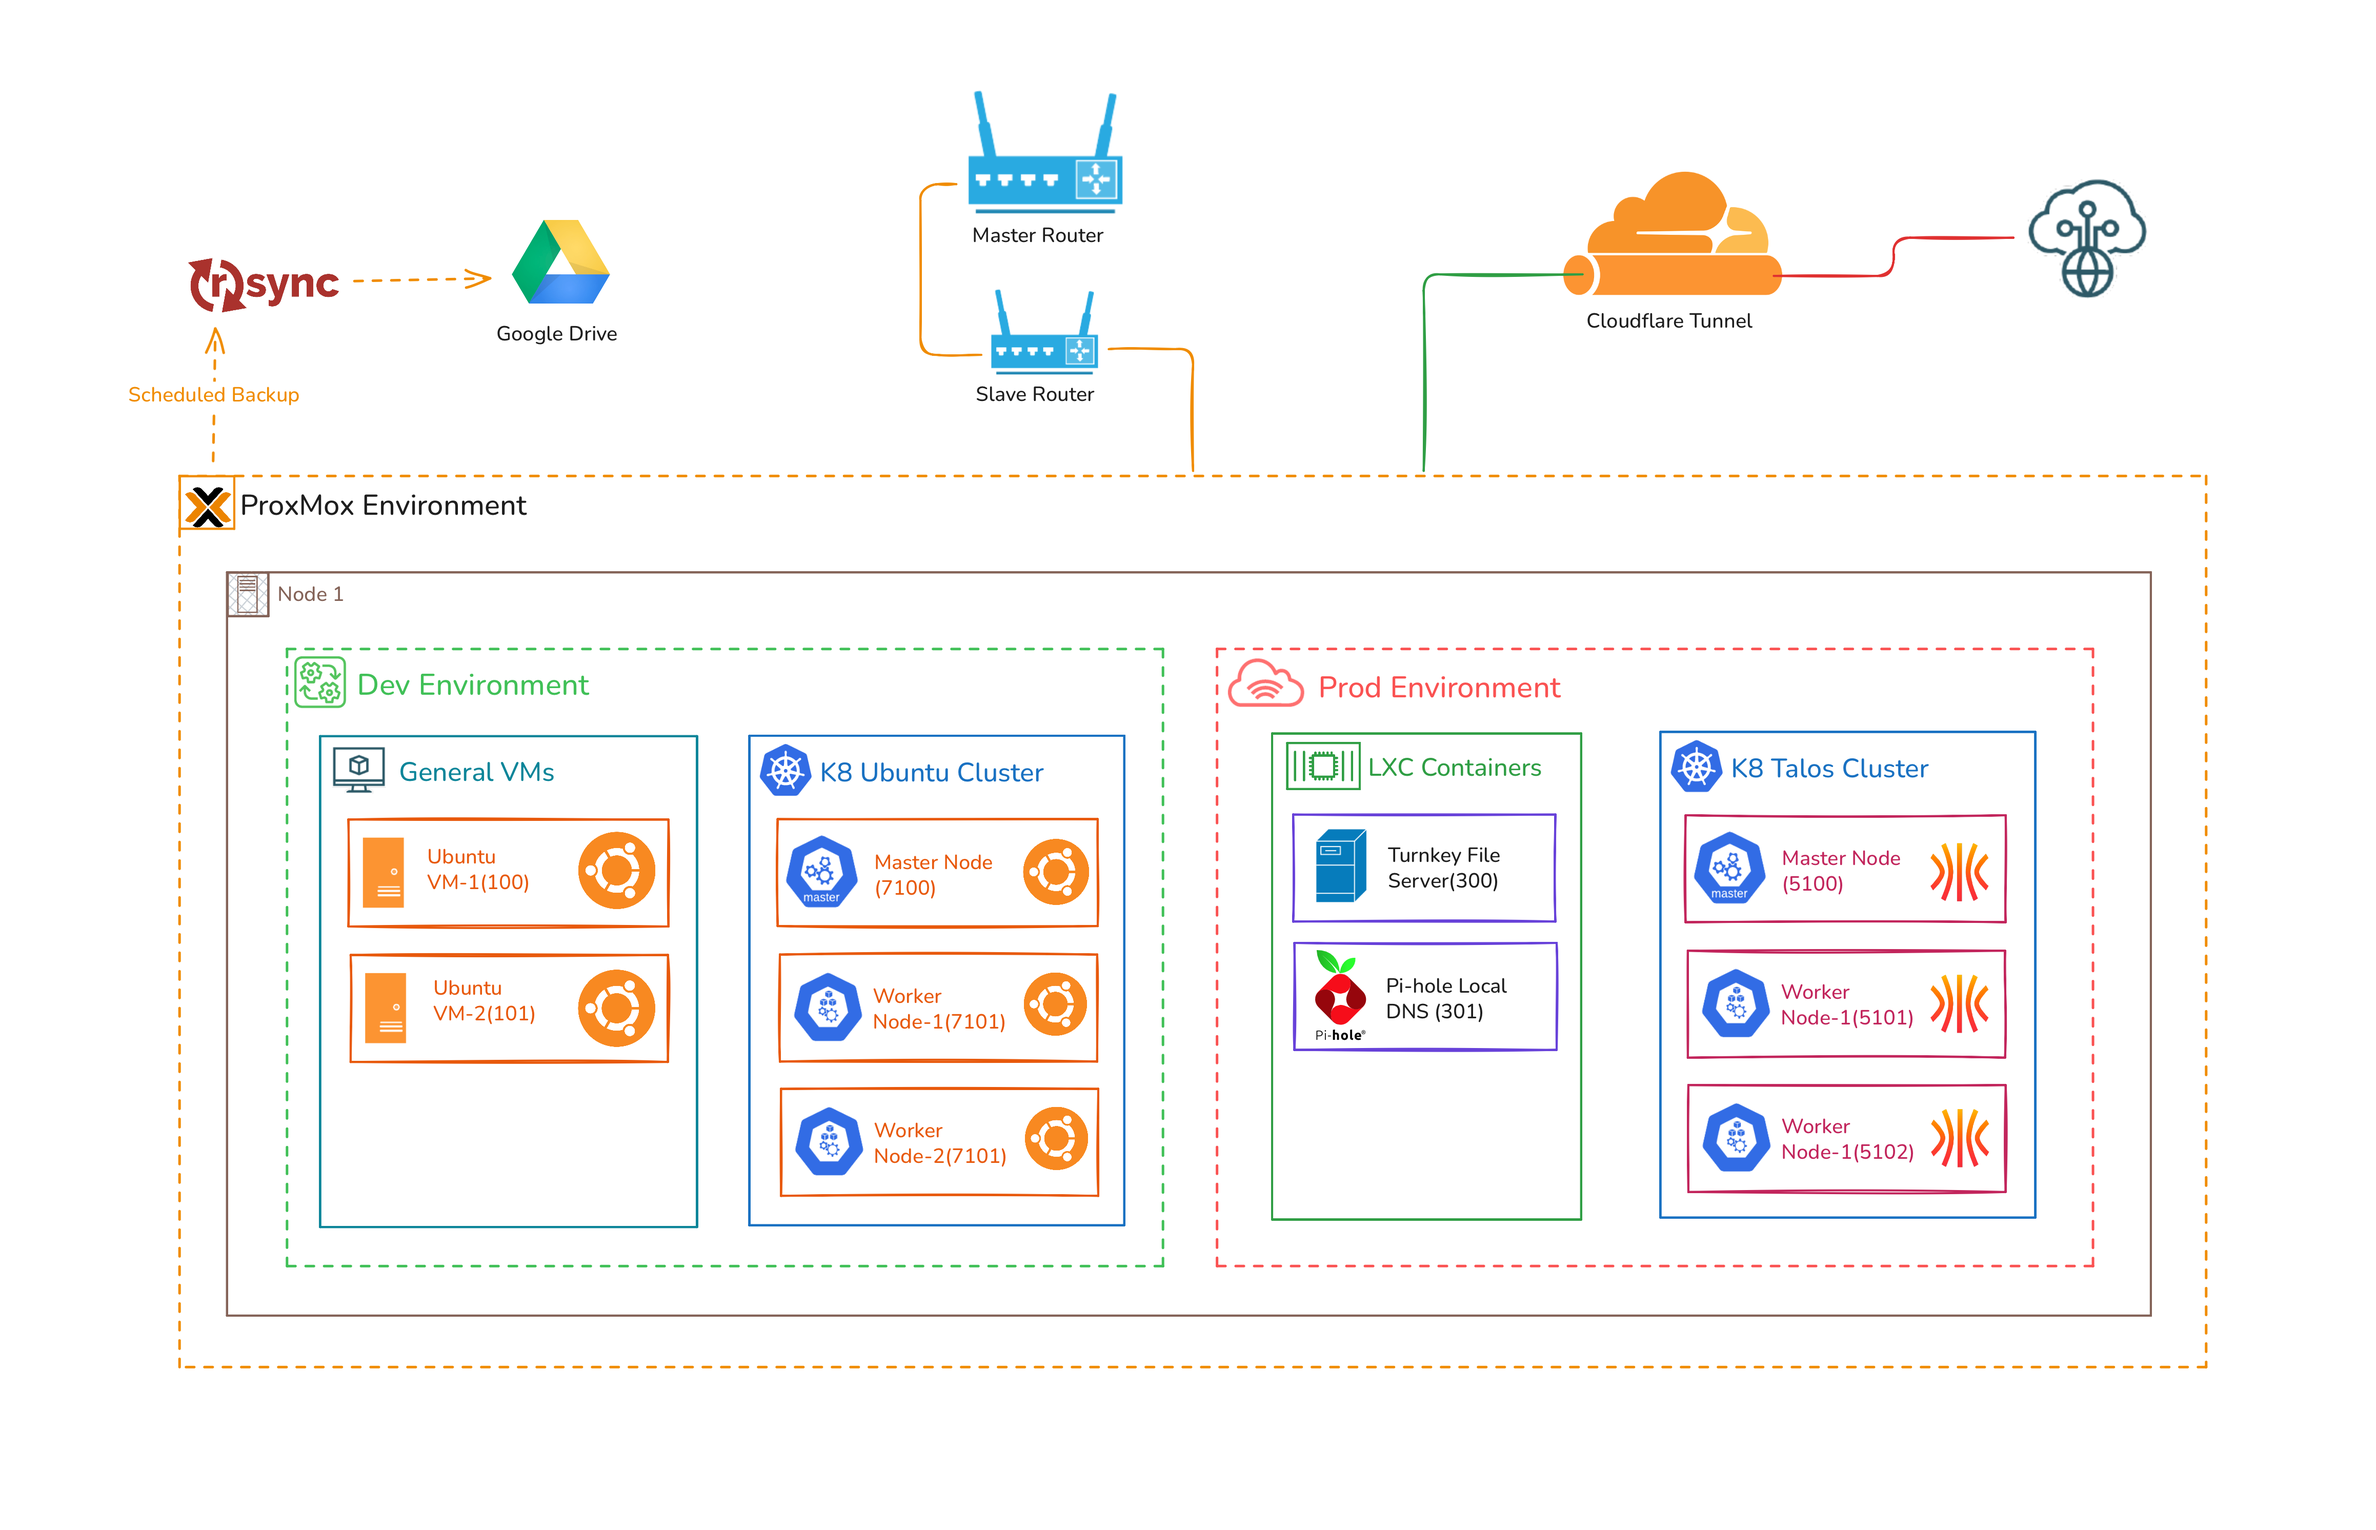
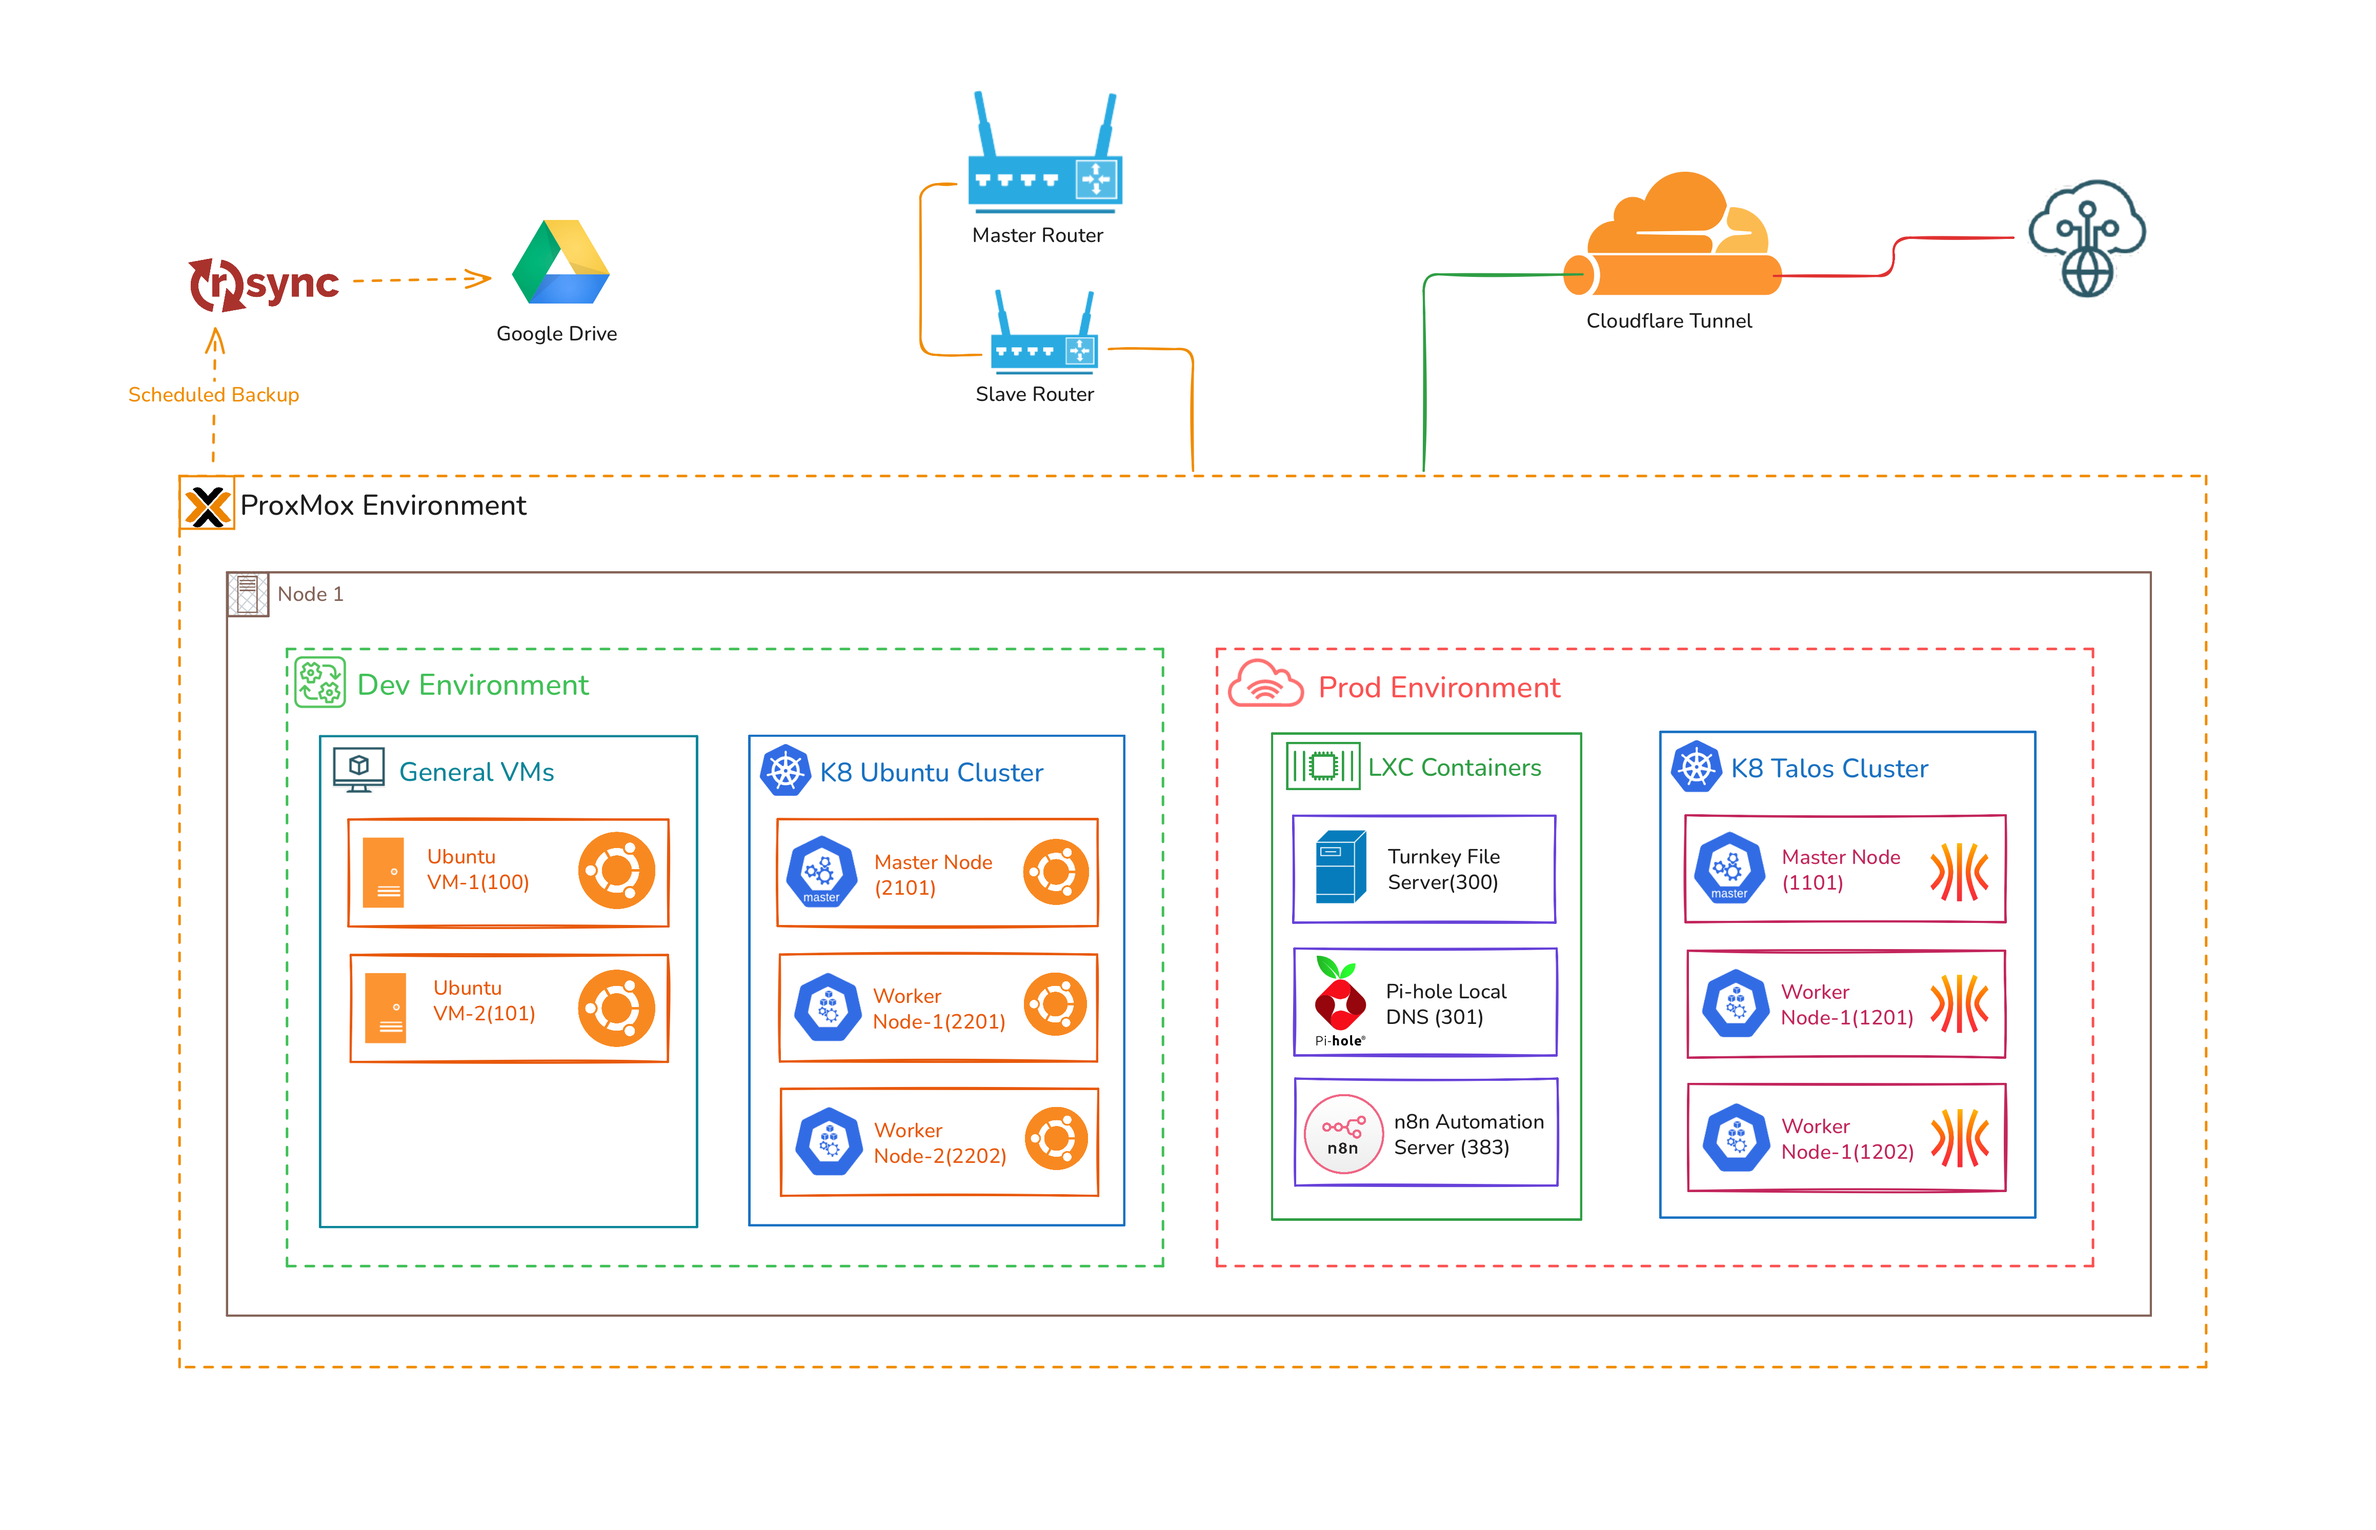
feat: Kubernetes ubuntu cluster deployed

Changed region(s): [[0.5593, 0.5298, 0.6526, 0.7792], [0.7769, 0.748, 0.8079, 0.7792], [0.7458, 0.561, 0.7769, 0.5922]]

diff --git a/README.md b/README.md
@@ -4,3 +4,89 @@
 
 ## [ProxMox Setup](docs/proxmox.md)
 ProxMox is the backbone of the homelab we are using ProxMox for our virtualization setup.
+```md
+HomeLab/
+├── .envrc                           # Dir Env Variables
+├── .git/
+├── .gitignore
+├── .sops.yaml                       # SOPS encryption configuration
+├── README.md
+├── proxmox/                         # Terraform for Proxmox Infrastructure
+│   ├── environments
+│   │   ├── dev
+│   │   │   ├── backend.tf
+│   │   │   ├── backend.tf.enc
+│   │   │   ├── dev.tfvars
+│   │   │   ├── dev.tfvars.enc
+│   │   │   ├── main.tf
+│   │   │   ├── outputs.tf
+│   │   │   ├── variables.tf
+│   │   │   └── versions.tf
+│   │   └── prod
+│   │       ├── backend.tf
+│   │       ├── backend.tf.enc
+│   │       ├── main.tf
+│   │       ├── outputs.tf
+│   │       ├── prod.tfvars
+│   │       ├── prod.tfvars.enc
+│   │       ├── variables.tf
+│   │       └── versions.tf
+│   ├── modules
+│   │   ├── lxc
+│   │   ├── talos-vm
+│   │   ├── ubuntu-k8s
+│   │   └── ubuntu-vm
+│   └── readme.md
+├── talos/                            # Talos cluster configs
+└── ansible/                          # New: Ansible automation
+    ├── ansible.cfg
+    ├── requirements.yml
+    ├── inventories/
+    │   ├── prod/
+    │   └── dev/
+    ├── playbooks/
+    │   ├── site.yml
+    │   ├── lxc/
+    │   │   ├── deploy-all-lxc.yml
+    │   │   ├── deploy-n8n.yml
+    │   │   ├── deploy-pihole.yml
+    │   │   └── maintenance.yml
+    │   ├── kubernetes/
+    │   │   ├── cluster-setup.yml
+    │   │   ├── cluster-upgrade.yml
+    │   │   ├── node-maintenance.yml
+    │   │   └── applications/
+    │   │       ├── deploy-monitoring.yml
+    │   │       ├── deploy-ingress.yml
+    │   │       └── deploy-storage.yml
+    │   └── common/
+    │       ├── security-hardening.yml
+    │       ├── backup-setup.yml
+    │       └── monitoring-agents.yml
+    ├── roles/
+    │   ├── common/
+    │   │   ├── tasks/main.yml
+    │   │   ├── handlers/main.yml
+    │   │   ├── vars/main.yml
+    │   │   ├── defaults/main.yml
+    │   │   └── templates/
+    │   ├── lxc/
+    │   │   ├── n8n/
+    │   │   ├── pihole/
+    │   │   ├── nas/
+    │   │   └── base/
+    │   ├── kubernetes/
+    │   │   ├── master/
+    │   │   ├── worker/
+    │   │   ├── cni/
+    │   │   ├── storage/
+    │   │   └── monitoring/
+    │   └── security/
+    │       ├── fail2ban/
+    │       ├── ufw/
+    │       └── ssh-hardening/
+    └── vault/
+        ├── production.yml
+        ├── development.yml
+        └── staging.yml
+```
